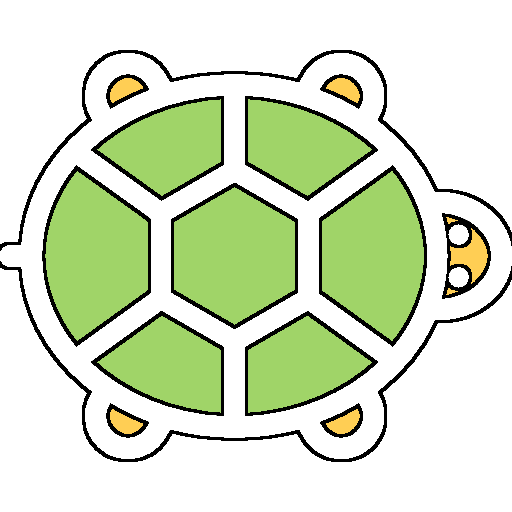
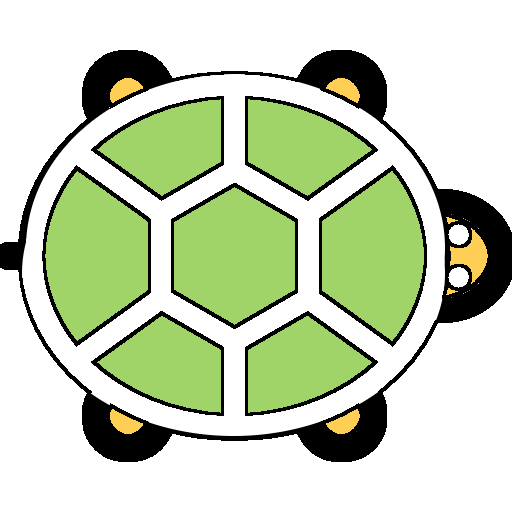
Refining turtle adding turtle-walkers
* plant walker and hilbert walker L-System walkers
 * make turtle look better, but be smaller
 * visible async turtle walking

diff --git a/turtle.js b/turtle.js
@@ -17,6 +17,7 @@ var TurtleProto = {
   $elt: null,
   currentLine: null,
   walking: false,
+  stateStack: [],
 
   get isDrawing(){ return this._isDrawing; },
   set isDrawing(state){
@@ -72,6 +73,30 @@ var TurtleProto = {
     this.render();
   },
 
+  save: function(){
+    this.stateStack.push({
+      x : this.x,
+      y : this.y,
+      color : this.color,
+      facing : this.facing,
+      thickness: this.thickness,
+      isDrawing: this.isDrawing,
+    });
+    this._startNewLine();
+  },
+
+  restore: function(){
+    var s = this.stateStack.pop();
+    if(!s) return;
+    this.x = s.x;
+    this.y = s.y;
+    this.facing = s.facing;
+    this.color = s.color;
+    this.thickness = s.thickness;
+    this.isDrawing = s.isDrawing;
+    this._startNewLine();
+  },
+
   clone: function(board){ // static function
     if(!board) board = window.document.querySelector('.board');
     if(!board){ return false; }
@@ -90,8 +115,8 @@ var TurtleProto = {
     o.$elt.style.position = "absolute";
     o.$elt.style.left = this.x;
     o.$elt.style.top = this.y;
-    o.height = o.$elt.style.height = 32;
-    o.width = o.$elt.style.width = 32;
+    o.height = o.$elt.style.height = 24;
+    o.width = o.$elt.style.width = 24;
     o.$board = board;
     o.$board.prepend(o.$elt);
     o.maxX = o.$board.clientWidth;
@@ -99,7 +124,7 @@ var TurtleProto = {
     return o;
   },
 
-  _checkX: function(){ // Todo:better wrap handling
+  _checkX: function(){ // Todo:better / optional wrap handling
     if(this.x < 0){
       this.x = this.maxX;
       this._startNewLine();
@@ -159,6 +184,15 @@ var TurtleProto = {
     this.y = this.y + dy;
     return this;
   },
+
+  forwardDraw: function(turns){ // TODO: handle wrapping when more than 1 turn
+    var d = this.isDrawing;
+    this.isDrawing = true;
+    this.forward(turns);
+    this.isDrawing = d;
+    return this;
+  },
+
 
   backward: function(turns){
     if(!turns) turns = 1;
@@ -243,22 +277,13 @@ var TurtleProto = {
     this.$elt.className = 'turtle '+this.facing;
 
 
-    var hw =this.width/2, hh=this.height/2;
+    var hw = this.width/2, hh=this.height/2;
     var xnudge = (Math.cos((2*Math.PI/360)*this.facing)||0) * hw;
     var ynudge = (Math.sin((2*Math.PI/360)*this.facing)||0) * hh;
     this.$elt.style.left = (this.x + xnudge - hw) + 'px';
     this.$elt.style.top =  (this.y + ynudge - hh) + 'px';
     this._renderLine();
   },
-
-  stopWalk: function stopWalk(){
-    this.walking = false;
-  },
-
-  spiralWalk: function spiralWalk(){
-    this.left();
-  },
-
 
 };
 
@@ -275,13 +300,13 @@ var KeyHandler = {
     }
   },
   keyHandlers: {
-    Left:  function(o){ o.relativeControls ? o.turnLeft(1) : o.left() ; },
-    Right: function(o){ o.relativeControls ? o.turnRight(1) : o.right(); },
-    Up:    function(o){ o.relativeControls ? o.forward() : o.up(); },
-    Down:  function(o){ o.relativeControls ? o.backward() : o.down();},
-    Space: function(o){ o.isDrawing = !o.isDrawing; },
-    H: function(o) { o.hilbrantWalk(); },
-    s: function(o) { o.stopWalk(); },
+    Left:   function(o){ o.relativeControls ? o.turnLeft(1) : o.left() ; },
+    Right:  function(o){ o.relativeControls ? o.turnRight(1) : o.right(); },
+    Up:     function(o){ o.relativeControls ? o.forward() : o.up(); },
+    Down:   function(o){ o.relativeControls ? o.backward() : o.down();},
+    Space:  function(o){ o.isDrawing = !o.isDrawing; },
+    H:      function(o) { o.hilbrantWalk(); },
+    s:      function(o) { o.stopWalk(); },
     Escape: function(o){
       var it;
       while(  (it = document.querySelector('.line')) ){
@@ -291,9 +316,13 @@ var KeyHandler = {
   },
 };
 
+
+
+
 // onEvent('screen1', "keydown", function(event){ turtle.keyPressHandler(event); });
 window.onload = function(){
   var turtle = window.turtle = TurtleProto.clone();
+
   window.document.body.addEventListener("keydown", function(event){
     KeyHandler.press(turtle, event);
   });

diff --git a/walkers.js b/walkers.js
@@ -1,0 +1,109 @@
+
+// Asyncronous L System walker - 1 step
+function walkLSystem1Step (system, inp){
+  if(!inp) inp = system.currentState;
+  return new Promise(function(resolve, reject){
+    var o="";
+    var i = -1, c = null;
+    var walker = function(){
+      i++; c = inp[i];
+      if (c == null) {
+        system.currentState = o;
+        return resolve(system);
+      }
+      var rule = system.rules[c];
+      if(!rule){
+        console.log('No rule found for ', c , system.rules);
+        window.setTimeout(walker, system.wait||1);
+      }
+
+      if(rule.rewrite){
+        var opts = rule.rewrite.split(/,/);
+        var idx = Math.floor(Math.random() * opts.length);
+        var r = opts[idx];
+        o += r;
+      }
+      else o += c;
+
+      if(rule.fn){
+        var p = rule.p||[];
+        if(typeof(p)=="function") p = p(system, rule);
+        turtle[rule.fn].apply(turtle, rule.p||[]);
+      }
+      window.setTimeout(walker, system.wait||1);
+    };
+    walker();
+  });
+}
+
+// Asyncronous L System Walker - Give the renderer time to do its thing
+function LSystemWalker (turtle, lsystem, steps){
+  return new Promise(function (resolve, reject){
+    var pw = window.currentWalker = Object.create(lsystem);
+    if(!turtle) turtle = window.turtle;
+    if(!turtle) return;
+    lsystem.turtle = turtle;
+    turtle.walking = true;
+    turtle.isDrawing = true;
+
+    var n = steps || lsystem.steps;
+    var looper = function(doit){
+      if(!doit) return resolve(lsystem);
+      walkLSystem1Step(lsystem).then(function(){
+        window.setTimeout(function(){
+          looper( turtle.walking && (n-- > 0) );
+        },1);
+      });
+    };
+    looper(true);
+  });
+};
+
+fractalPlantWalkerProto = {
+  turtle: null,
+  currentState: 'X',
+  variables : ["X", "F"],
+  constants: ["+", "-"],
+  start: 'X',
+  steps:7,
+  rules: {
+    "X": {rewrite: "F+[[X]-X],F[-FX]+X"},
+    "F": {rewrite: "FF", fn: "forward", p:[1]},
+    "[": {fn: "save", p:[]},
+    "]": {fn: "restore", p:[]},
+    "+": {fn: "turnLeft", p: [20]},
+    "-": {fn: "turnRight", p: [20]},
+  }
+};
+
+hilbertLProto = {
+  turtle: null,
+  currentState: 'AF',
+  variables:['A', 'B'],
+  constants:['F', '+', '-'],
+  wait: 25,
+  steps: 5,
+  rules: {
+    'A': {rewrite: "-BF+AFA+FB-"},
+    'B': {rewrite: "+AF-BFB-FA+"},
+    "F": {fn: "forward", p:[10]},
+    "+": {fn: "turnLeft", p: [90]},
+    "-": {fn: "turnRight", p: [90]},
+  }
+};
+
+
+
+function plantWalkTurtle(turtle, steps, x, y, facing){
+  turtle.x = x || turtle.maxX/2;
+  turtle.y = y || 400;
+  turtle.facing = facing || 310;
+  LSystemWalker(turtle, Object.create(fractalPlantWalkerProto), steps);
+};
+
+function hilberWalker(turtle, steps, x, y, facing){
+  turtle.x = x || turtle.maxX/4;
+  turtle.y = y || turtle.maxY/4;
+  turtle.facing = facing || 0;
+  LSystemWalker(turtle, Object.create(hilbertLProto), steps);
+}

diff --git a/turtle.html b/turtle.html
@@ -2,16 +2,13 @@
   <head>
     <title>Turtle Fun!</title>
     <script type="text/javascript" src="turtle.js"></script>
+    <script type="text/javascript" src="walkers.js"></script>
     <style>
 
-     .turtle { height:32px; width:32px; position:relative; padding:0px; clear:both;}
+     .turtle { position:relative; padding:0px; clear:both;}
      .turtle .bg {background-color:black; border-radius:16px; 
-       width:28px; height:24px; position:absolute; top:4px; left:1px; z-index:1; }
-     .turtle img {height:32px; width:32px;z-index:10; position:absolute;}
-     .turtle.right {margin-top:-16px;}
-     .turtle.left {margin-top:-16px; margin-left:-32px;}
-     .turtle.down {margin-left:-16px;}
-     .turtle.up {margin-top:-32px; margin-left:-16px;}
+       width:20px; height:16px; position:absolute; top:4px; left:1px; z-index:1; }
+     .turtle img {height:24px; width:24px; z-index:10; position:absolute;}
      .board {margin:15px; border:3px solid #00A; max-width:1000px; min-height:500px; position:relative;}
      .line { position:absolute; height:1px; width:1px; background-color:black; transform-origin:left;}
 
